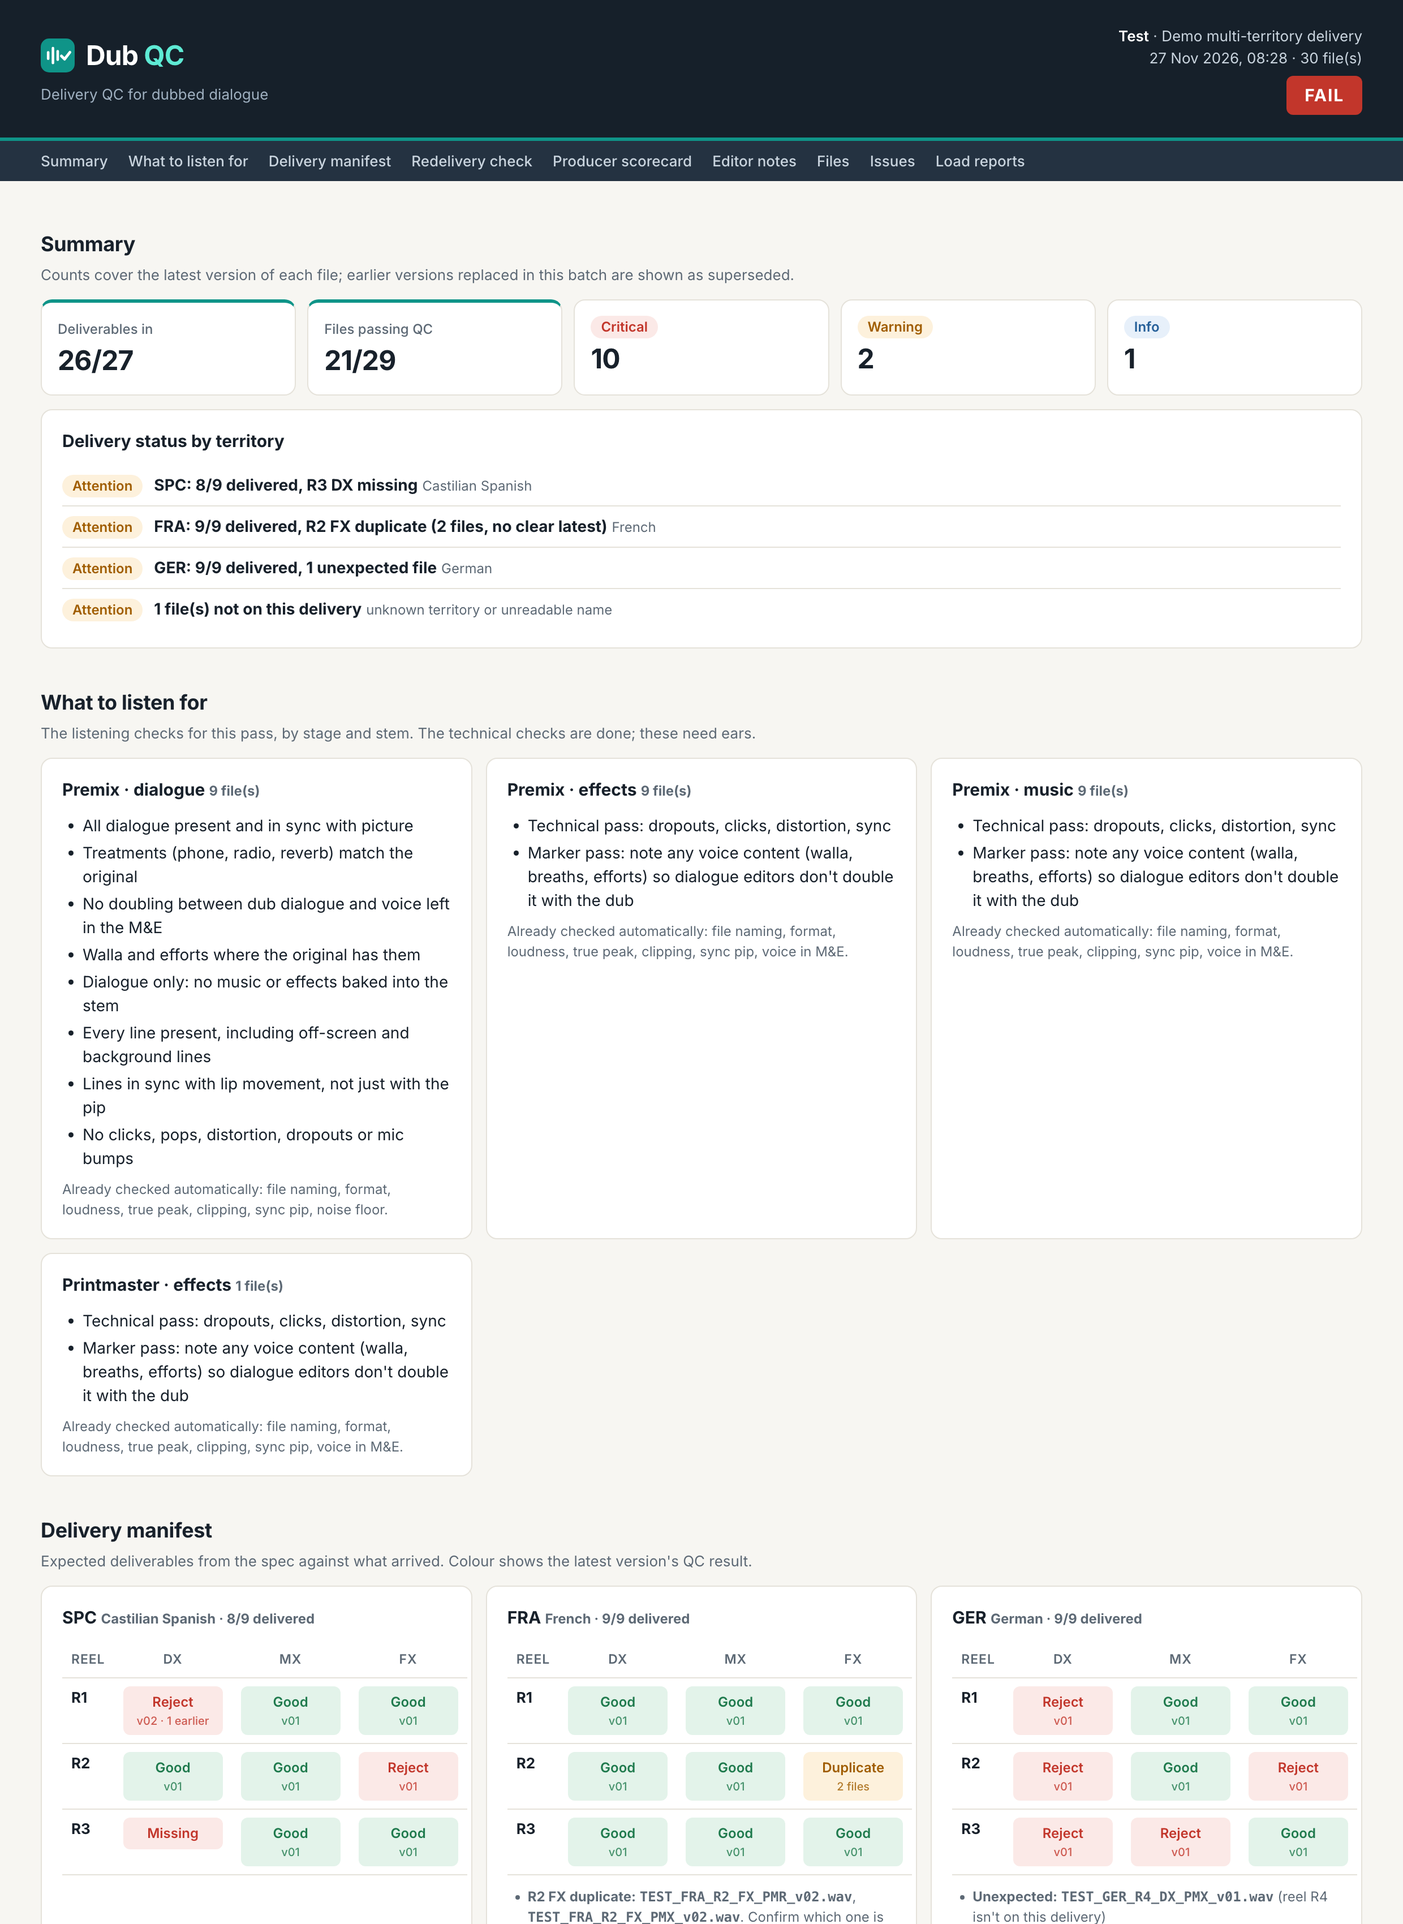
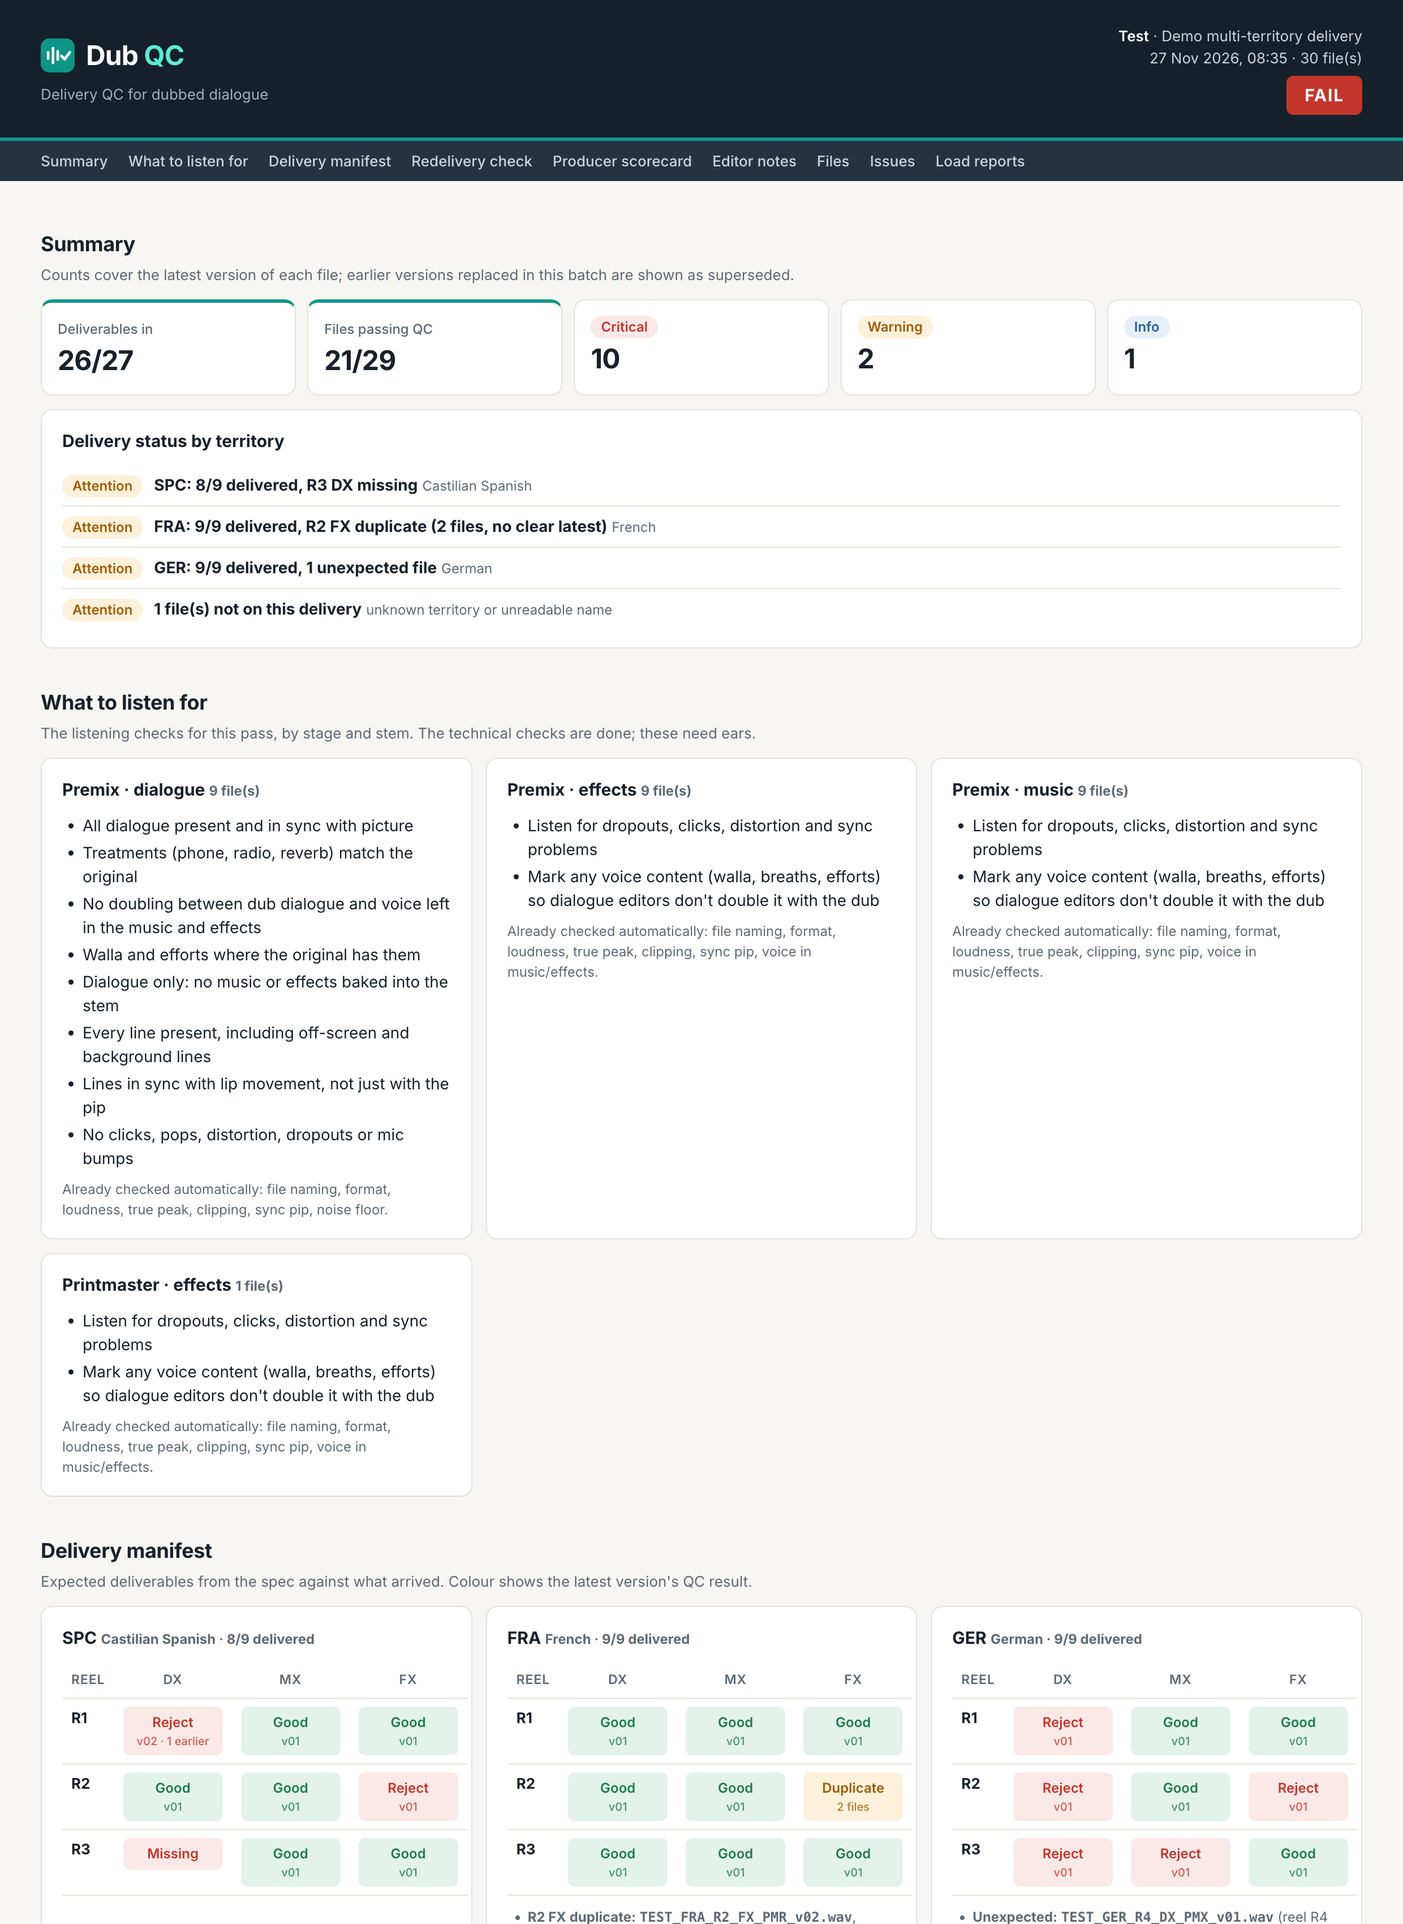
Plainer wording: 'music and effects' throughout, simpler workflow description
FSS now shows as 'final QC'. Listening checklists for music and effects
stems use plain descriptions.

diff --git a/dubqc/spec.py b/dubqc/spec.py
@@ -65,11 +65,11 @@ DEFAULT_SPEC: dict = {
         **{code: {"name": name, "checks": [c for c in ALL_CHECKS if c != "noise"],
                   "stage_checklist": False,          # the stage checklists are about dialogue
                   "checklist": [
-                      "Technical pass: dropouts, clicks, distortion, sync",
-                      "Marker pass: note any voice content (walla, breaths, efforts) so dialogue "
+                      "Listen for dropouts, clicks, distortion and sync problems",
+                      "Mark any voice content (walla, breaths, efforts) so dialogue "
                       "editors don't double it with the dub",
                   ]}
-           for code, name in (("MX", "music"), ("FX", "effects"), ("ME", "M&E"))},
+           for code, name in (("MX", "music"), ("FX", "effects"), ("ME", "music and effects"))},
     },
     "stages": {
         "RAW": {"name": "raw dialogue", "checks": ["naming", "format", "clipping", "pip", "noise"],
@@ -81,7 +81,7 @@ DEFAULT_SPEC: dict = {
         "PMX": {"name": "premix", "checklist": [
             "All dialogue present and in sync with picture",
             "Treatments (phone, radio, reverb) match the original",
-            "No doubling between dub dialogue and voice left in the M&E",
+            "No doubling between dub dialogue and voice left in the music and effects",
             "Walla and efforts where the original has them",
         ]},
         "PMR": {"name": "printmaster", "checklist": [
@@ -89,7 +89,7 @@ DEFAULT_SPEC: dict = {
             "Nothing new introduced since the premix",
             "Dialogue sits clearly over music and effects",
         ]},
-        "FSS": {"name": "FSS", "checklist": [
+        "FSS": {"name": "final QC", "checklist": [
             "Every printmaster QC note has been fixed",
             "Final top-to-tail listen: no dropouts, clicks or missing lines",
             "Pips present and in sync; nothing before first frame of action",
@@ -104,7 +104,7 @@ DEFAULT_SPEC: dict = {
     "continuous": {"session_start": "00:59:50:00", "pip": "00:59:58:00", "ffoa": "01:00:00:00"},
     # Optional per-reel timecodes, e.g. {2: {session_start: '02:00:00:00', pip: ..., ffoa: ...}}
     "reels": {},
-    # M&E marker pass: how sure the detector must be that a passage is voice, and how long it must last
+    # Voice markers in music and effects: how sure the detector must be that a passage is voice, and how long it must last
     "voice_in_me": {"min_score": 0.72, "min_duration_s": 1.0, "min_level_dbfs": -45},
     # Editor notes: how loud the audio at a noted timecode must be to count as present
     "notes": {"min_level_dbfs": -45, "default_duration_s": 1.0},
@@ -167,7 +167,7 @@ def checks_for(spec: dict, stage: str | None, stem: str | None) -> list[str]:
     """Which checks run on a file: the checks allowed for its stage AND for its stem."""
     stage_checks = entry(spec, "stages", stage).get("checks", ALL_CHECKS) if stage else ALL_CHECKS
     # If a spec names a stem without listing its checks, fall back to the built-in set for that
-    # stem, so e.g. dialogue is never run through the "voice in M&E" detector.
+    # stem, so e.g. dialogue is never run through the "voice in music and effects" detector.
     builtin = DEFAULT_SPEC["stems"].get(stem or "DX", DEFAULT_SPEC["stems"]["DX"])
     stem_checks = entry(spec, "stems", stem).get("checks", builtin["checks"]) if stem else builtin["checks"]
     return [c for c in ALL_CHECKS if c in stage_checks and c in stem_checks]

diff --git a/tests/test_workflow.py b/tests/test_workflow.py
@@ -1,4 +1,4 @@
-"""Tests for the workflow features: delivery versions, stage-aware checks, M&E marker pass, editor notes."""
+"""Tests for the workflow features: delivery versions, stage-aware checks, voice markers in music and effects, editor notes."""
 
 import csv
 from pathlib import Path
@@ -116,11 +116,11 @@ def test_checklists_by_stage_and_stem():
     dx = checklist_for(SPEC, "PMX", "DX")
     assert any("in sync with picture" in i for i in dx) and any("off-screen" in i for i in dx)
     fx = checklist_for(SPEC, "PMX", "FX")
-    assert any(i.startswith("Marker pass") for i in fx)
-    assert not any("dialogue present" in i for i in fx)          # dialogue items stay off M&E stems
+    assert any(i.startswith("Mark any voice content") for i in fx)
+    assert not any("dialogue present" in i for i in fx)          # dialogue items stay off music and effects stems
 
 
-# ---------------------------------------------------------------- M&E marker pass
+# ---------------------------------------------------------------- voice markers in music and effects
 
 @pytest.mark.parametrize("seed", [1, 2, 3, 4])
 def test_music_and_effects_are_not_flagged(seed):
@@ -130,7 +130,7 @@ def test_music_and_effects_are_not_flagged(seed):
 
 def test_walla_in_effects_is_marked(tmp_path):
     r = check_file(write(tmp_path, "TEST_SPC_R1_FX_PMX_v01.wav", kind="FX", walla=(12.0, 15.0)), SPEC)
-    (voice,) = [i for i in r.issues if i.code == "VOICE IN M&E"]
+    (voice,) = [i for i in r.issues if i.code == "VOICE IN MUSIC/EFFECTS"]
     assert voice.severity == "Info" and 11.0 <= voice.seconds <= 13.0
     assert r.passed                                               # a marker, not a fault
 
@@ -170,5 +170,5 @@ def test_report_shows_checklist_and_notes(tmp_path):
     paths = [write(tmp_path, "TEST_SPC_R1_DX_PMX_v01.wav"), write(tmp_path, "TEST_SPC_R1_FX_PMX_v01.wav", kind="FX")]
     html = to_html(run_batch(paths, SPEC, notes=notes), SPEC, "Test")
     for text in ("What to listen for", "Already checked automatically", "Editor notes",
-                 "Guard calls out from behind the door", "Marker pass"):
+                 "Guard calls out from behind the door", "Mark any voice content"):
         assert text in html, text

diff --git a/dubqc/report.py b/dubqc/report.py
@@ -402,7 +402,7 @@ def _load_reports(batch: BatchResult, spec: dict) -> str:
 
 
 CHECK_NAMES = {"naming": "file naming", "format": "format", "loudness": "loudness", "true_peak": "true peak",
-               "clipping": "clipping", "pip": "sync pip", "noise": "noise floor", "voice_in_me": "voice in M&E"}
+               "clipping": "clipping", "pip": "sync pip", "noise": "noise floor", "voice_in_me": "voice in music/effects"}
 
 
 def _checklist(batch: BatchResult, spec: dict) -> str:
@@ -420,7 +420,7 @@ def _checklist(batch: BatchResult, spec: dict) -> str:
         title = " · ".join(x for x in (entry_name(spec, "stages", stage) if stage else "",
                                        entry_name(spec, "stems", stem) if stem else "") if x)
         done = ", ".join(CHECK_NAMES[c] for c in files[0].checks_run)
-        cards.append(f"<div class='card'><h3>{escape(title.capitalize())} <span class='muted'>{len(files)} file(s)"
+        cards.append(f"<div class='card'><h3>{escape(title[:1].upper() + title[1:])} <span class='muted'>{len(files)} file(s)"
                      f"</span></h3><ul class='check'>" + "".join(f"<li>{escape(i)}</li>" for i in items) +
                      f"</ul><p class='muted' style='margin:8px 0 0'>Already checked automatically: {escape(done)}.</p></div>")
     if not cards:

diff --git a/dubqc/demo.py b/dubqc/demo.py
@@ -85,7 +85,7 @@ def make_dialogue(seed: int = 1, pip_offset_frames: int = 0, clip_line: int | No
     blip_at_s:        a short click at this position (e.g. before FFOA)
     kind:             DX (dialogue), MX (music) or FX (effects)
     drop_line:        1-based line number left out (a line that never made it into the mix)
-    walla:            (start_s, end_s) of background voices mixed in (e.g. walla left in an M&E)
+    walla:            (start_s, end_s) of background voices mixed in (e.g. walla left in a music or effects stem)
     """
     rng = np.random.default_rng(seed)
     lines = LINES[:n_lines] if n_lines else LINES
@@ -160,7 +160,7 @@ TITLE = "TEST"
 #     still clips, and adds a click before FFOA              -> Redelivery: fixed / still present / new
 #   GER producer: 3 of 4 rejects are sync pip                -> Scorecard flags sync training
 #   SPC R2 FX exported 16-bit                                -> Format reject
-#   SPC R3 FX has walla left in it                           -> M&E marker for the load
+#   SPC R3 FX has walla left in it                           -> voice marker for the load
 #   GER R3 DX dropped line 3, which an editor note covers    -> Noted content missing
 def _plan() -> list[tuple[str, str, dict, str]]:
     plan = []

diff --git a/dubqc/me_markers.py b/dubqc/me_markers.py
@@ -1,4 +1,4 @@
-"""M&E marker pass: find voice content (walla, breaths, efforts, stray dialogue) in music & effects stems.
+"""Voice markers for music and effects: find voice content (walla, breaths, efforts, stray dialogue) in music & effects stems.
 
 Speech has a tell-tale rhythm: its level in the voice band (roughly 300 Hz to 3.4 kHz) rises
 and falls 3 to 8 times a second, once per syllable. Music and effects rarely pulse at exactly
@@ -76,7 +76,7 @@ def check_voice_in_me(data: np.ndarray, sr: int, spec: dict) -> tuple[list[Issue
         tc = file_seconds_to_tc(p["start_s"], reel["fps"], reel["session_start"])
         end_tc = file_seconds_to_tc(p["end_s"], reel["fps"], reel["session_start"])
         issues.append(Issue(
-            check="M&E markers", code="VOICE IN M&E", severity=INFO,
+            check="Music & effects", code="VOICE IN MUSIC/EFFECTS", severity=INFO,
             seconds=p["start_s"], timecode=tc,
             message=f"Possible voice content (walla, breath, effort or dialogue) from {tc} to {end_tc}.",
             expected="music and effects only, or voice content marked for the load",

diff --git a/dubqc/scorecard.py b/dubqc/scorecard.py
@@ -28,7 +28,7 @@ UNASSIGNED = "Unassigned"
 AREAS = {
     "Loudness": "loudness", "True peak": "loudness", "Pip": "sync pip", "Clipping": "clipping",
     "Format": "export format", "Naming": "file naming", "Noise": "noise",
-    "Editor notes": "missing lines", "M&E markers": "M&E voice content",
+    "Editor notes": "missing lines", "Music & effects": "voice in music and effects",
 }
 ACTIONS = {
     "sync pip": "sync training needed",
@@ -38,7 +38,7 @@ ACTIONS = {
     "file naming": "resend the naming convention",
     "noise": "check the recording environment",
     "missing lines": "check the script and editor notes before printing",
-    "M&E voice content": "review the M&E marker pass",
+    "voice in music and effects": "review the voice markers",
 }
 STRENGTH_ORDER = ["loudness", "sync pip", "clipping", "noise", "export format", "file naming"]
 # When two areas account for the same number of rejects, blame the likely root cause first:

diff --git a/tests/test_batch.py b/tests/test_batch.py
@@ -195,8 +195,8 @@ def test_demo_batch_end_to_end(demo_batch):
     assert next(i for i in ger_r2.issues if i.code == "PIP OFFSET").timecode == "02:00:05:23"
     assert not b.passed
 
-    # M&E marker pass finds the walla left in SPC R3 FX, and only there
-    voice = [(f.file, i.timecode) for f in b.files for i in f.issues if i.code == "VOICE IN M&E"]
+    # The voice markers find the walla left in SPC R3 FX, and only there
+    voice = [(f.file, i.timecode) for f in b.files for i in f.issues if i.code == "VOICE IN MUSIC/EFFECTS"]
     assert voice and all(f == name("SPC", 3, "FX") for f, _ in voice)
     # the note on R3's off-screen line catches the line GER dropped
     ger_r3 = next(f for f in b.files if f.file == name("GER", 3, "DX"))

diff --git a/dubqc/delivery.py b/dubqc/delivery.py
@@ -130,7 +130,7 @@ def load_report(result: FileResult, spec: dict) -> tuple[str, str]:
 
     voice = m.get("me_voice_markers", [])
     if voice:
-        lines.append(f"{len(voice)} passage(s) of possible voice content in the M&E at {', '.join(voice[:5])}: "
+        lines.append(f"{len(voice)} passage(s) of possible voice content in the music and effects at {', '.join(voice[:5])}: "
                      "listen and mark for the load.")
     missing_notes = [n for n in result.notes if n["status"] == "Silent"]
     if missing_notes:

diff --git a/app.py b/app.py
@@ -124,7 +124,7 @@ if run:
                 continue
             title = " · ".join(x for x in (entry_name(spec, "stages", stage) if stage else "",
                                            entry_name(spec, "stems", stem) if stem else "") if x)
-            st.subheader(f"{title.capitalize()} ({len(files)} files)")
+            st.subheader(f"{title[:1].upper() + title[1:]} ({len(files)} files)")
             for item in items:
                 st.checkbox(item, key=f"chk-{stage}-{stem}-{item}")
 

diff --git a/dubqc/redelivery.py b/dubqc/redelivery.py
@@ -19,7 +19,7 @@ NEW = "New issue"
 
 # These problems are tied to a place in the file, so v01 and v02 must match by position too.
 # Everything else (loudness, pip offset, format...) happens once per file and matches by type.
-POSITIONAL = {"CLIPPING", "AUDIO BEFORE FFOA", "VOICE IN M&E", "NOTED CONTENT MISSING"}
+POSITIONAL = {"CLIPPING", "AUDIO BEFORE FFOA", "VOICE IN MUSIC/EFFECTS", "NOTED CONTENT MISSING"}
 
 
 def load_baseline(path: str | Path) -> list[FileResult]:

diff --git a/README.md b/README.md
@@ -8,16 +8,9 @@ Dub QC runs the technical QC on a dubbed film's audio at every stage, from raw d
 
 ## The problem
 
-Every dubbed version of a film passes through editorial and mixing several times before it's delivered:
+A dubbed version of a film is checked several times before it's delivered. Each territory sends in its recorded dialogue, which is prepared and mixed. The mix is then checked, fixed and checked again as it moves from premix to printmaster to a final QC. Finally it's turned into every version the release needs (theatrical, nearfield, IMAX, Atmos, broadcast R128, streaming), reeled or continuous, each with its own spec and timecode layout.
 
-1. **Ingest.** Each territory sends its raw dialogue recordings.
-2. **Load.** Editors prepare the dialogue for the mix: tracklay, clean-up, missing-line (pickup) requests, and a load report back to the territory.
-3. **Premix (PMX):** mix → QC → fixes.
-4. **Printmaster (PMR):** mix → QC → fixes.
-5. **Final QC (FSS)** → fixes.
-6. **Deliverables.** The finished mix is made into every version the release needs (stereo, 5.1, 7.1, IMAX, Atmos, nearfield, broadcast R128), reeled for cinema or continuous for streaming. Each version has its own spec and timecode layout.
-
-The music and effects (M&E) stems are QC'd too: a technical pass for faults, and a marker pass noting anything the dialogue editors need to know, such as walla, breaths or efforts already in the M&E.
+The music and effects stems need checking too: for technical faults, and for any voice content (walla, breaths, efforts) that the dialogue editors need to know about.
 
 That's a lot of passes, files and formats, and every QC pass depends on someone listening for everything and knowing what to look for. Dub QC runs the technical checks automatically at every stage, points the QCer to exactly where to listen, and keeps the notes that matter attached to the right timecodes from one pass to the next.
 
@@ -39,9 +32,9 @@ Every file gets a rating (Good / Acceptable with notes / Reject) and a short loa
 ### Built around the workflow
 
 - **Delivery versions.** One spec holds a profile per version (theatrical, nearfield, broadcast R128 and so on), each with its own loudness, peak and format limits. Each file is checked against the version in its name, so the same mix can pass as theatrical and fail as R128.
-- **Stage-aware QC.** Raw dialogue, premix, printmaster and FSS each run the checks that make sense at that stage (raw dialogue isn't loudness-checked, for example). Dialogue and M&E stems get different checks too.
+- **Stage-aware QC.** Raw dialogue, premix (PMX), printmaster (PMR) and final QC (FSS) each run the checks that make sense at that stage (raw dialogue isn't loudness-checked, for example). Dialogue and music and effects stems get different checks too.
 - **"What to listen for."** Each report lists the listening checks for that pass, by stage and stem (e.g. *"Every line present, including off-screen and background lines"*), alongside what Dub QC has already checked automatically.
-- **M&E marker pass.** Music and effects stems get the technical checks plus a voice detector that flags likely walla, breaths, efforts or stray dialogue as timecoded markers, so dialogue editors don't double them with the dub. It picks up the syllable-rate rhythm of speech, which music and effects rarely have.
+- **Voice markers in music and effects.** Music and effects stems get the technical checks plus a voice detector that flags likely walla, breaths, efforts or stray dialogue as timecoded markers, so dialogue editors don't double them with the dub. It picks up the syllable-rate rhythm of speech, which music and effects rarely have.
 - **Editor notes.** Timecoded notes in a simple CSV (*"off-screen line: guard calls out from behind the door"*). They carry into every later pass: each note is checked in every file it applies to, and flagged if the noted line has gone quiet.
 
 ### Across a whole delivery
@@ -54,7 +47,7 @@ Every file gets a rating (Good / Acceptable with notes / Reject) and a short loa
 
 - **HTML report:** summary, listening checklist, manifest grid, redelivery check, editor notes, sortable scorecard, issue table with suggested fixes, and waveforms with issue markers.
 - **JSON:** machine-readable, and usable as the baseline for the next redelivery check.
-- **Marker list:** tab-separated timecode / name / comment, covering QC issues, M&E markers and editor notes, for dropping into an editing session.
+- **Marker list:** tab-separated timecode / name / comment, covering QC issues, voice markers and editor notes, for dropping into an editing session.
 
 <details>
 <summary>Full report</summary>
